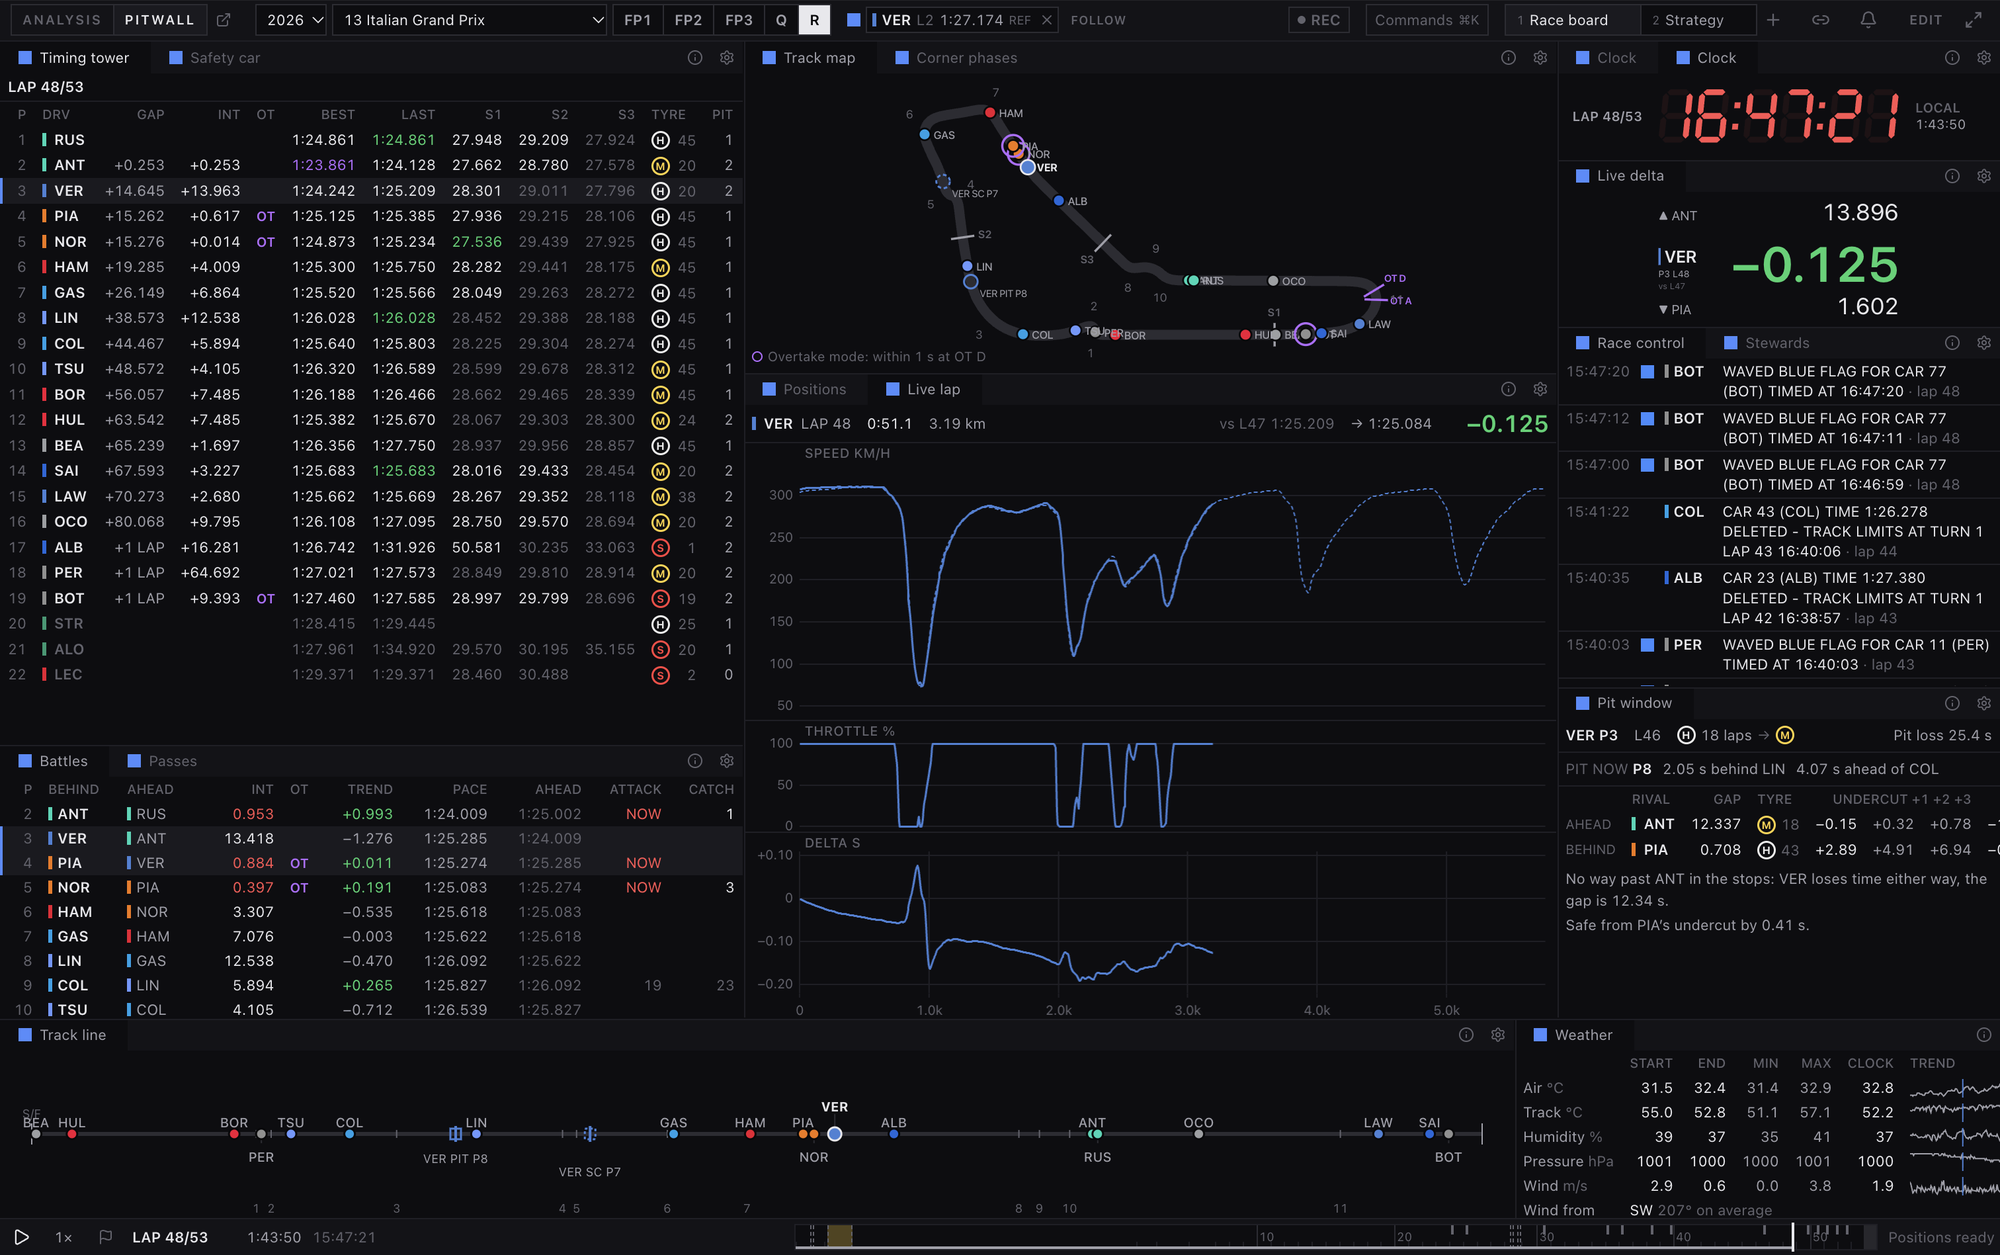
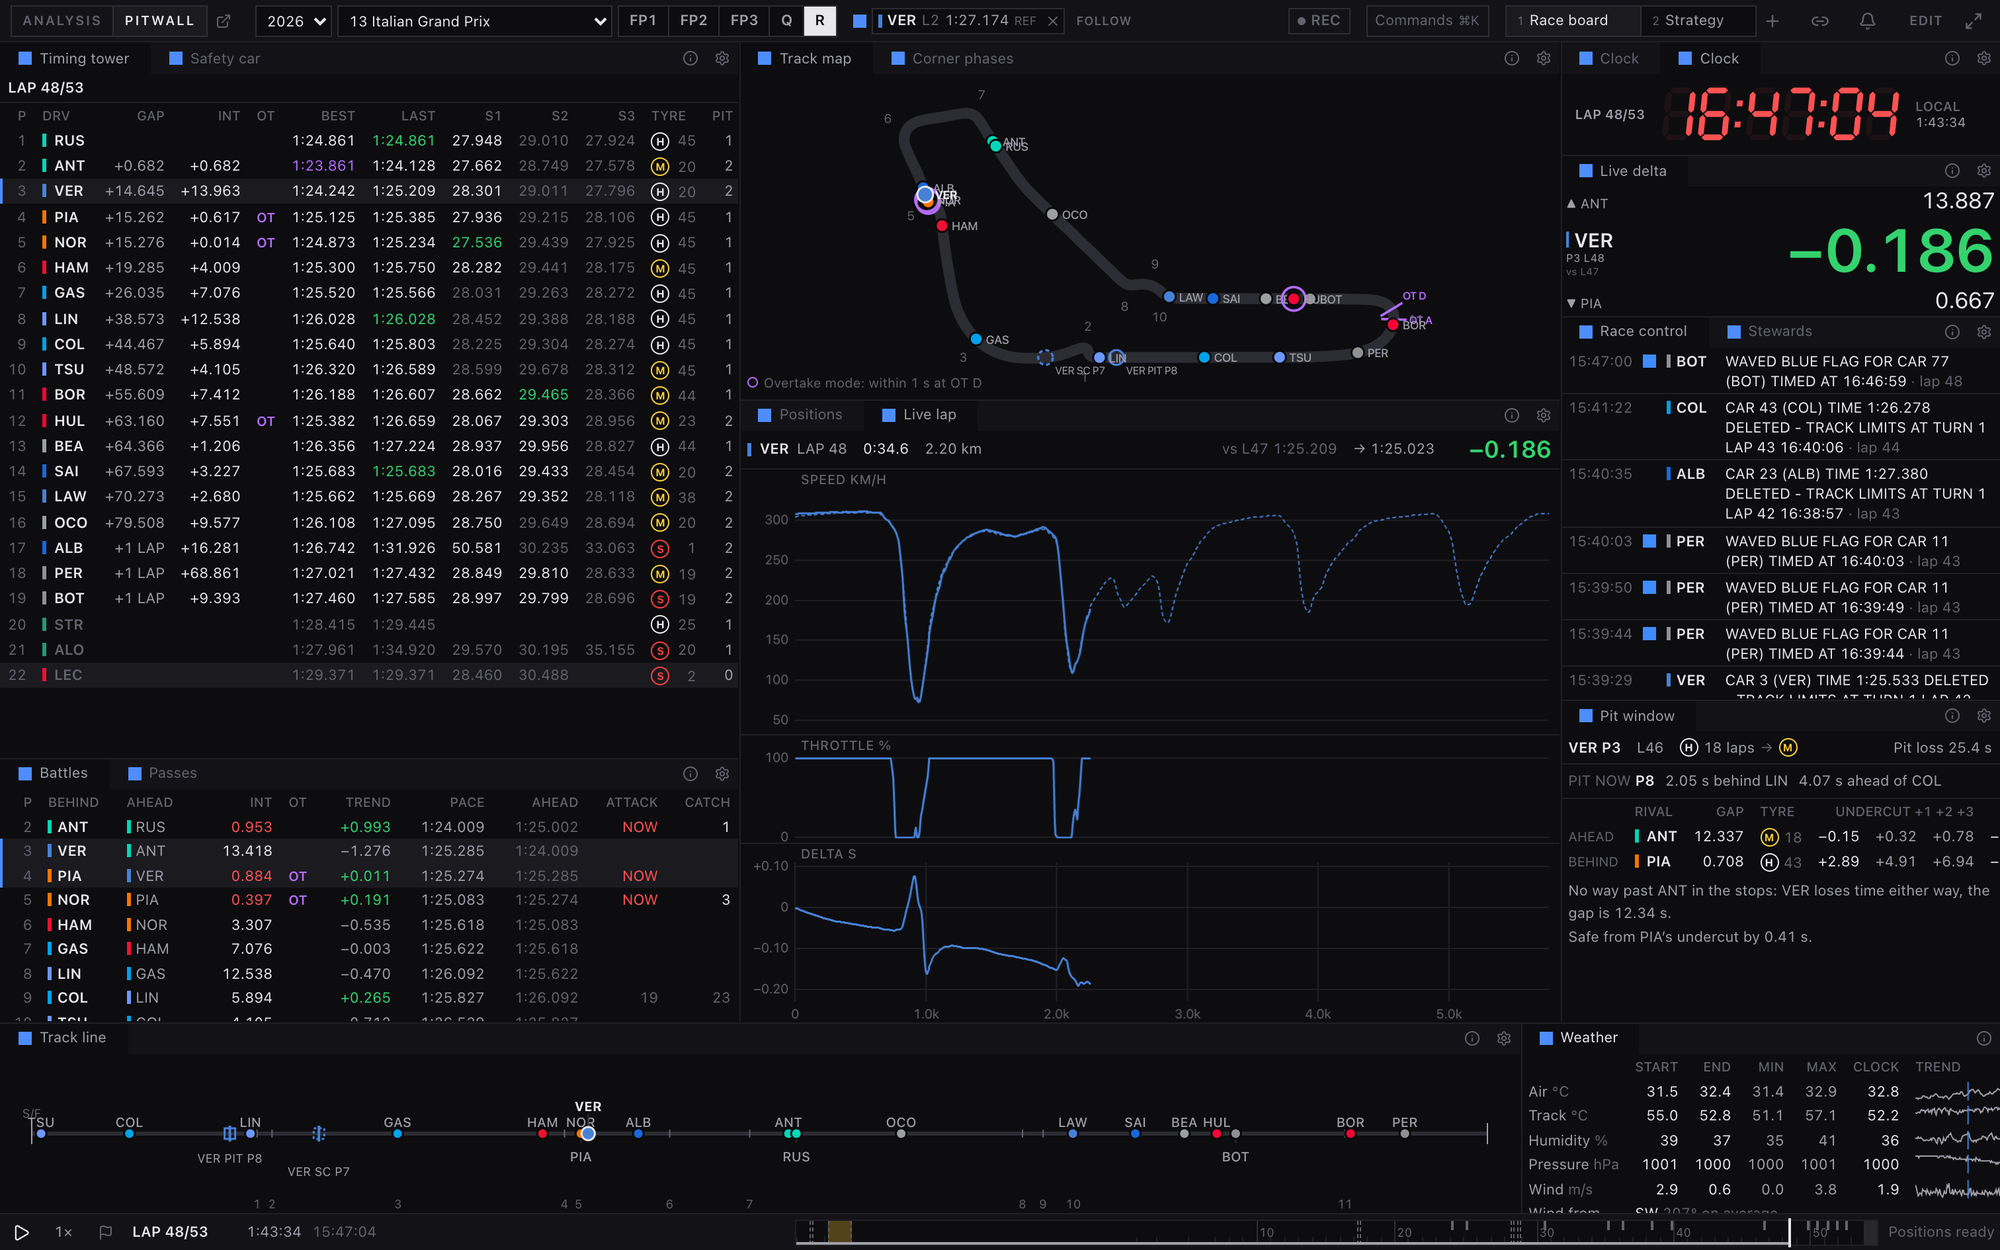
README screenshots with the new Live delta; row layout from 4x as wide, only the delta below 140x56

diff --git a/frontend/src/widgets/livedelta/arrange.ts b/frontend/src/widgets/livedelta/arrange.ts
@@ -37,12 +37,12 @@ export function arrange(w: number, h: number): Arrangement {
   const pad = Math.max(4, Math.round(Math.min(w, h) * 0.04));
   const inner = w - 2 * pad;
 
-  if (w < 170 || (h < 90 && w < 300)) {
+  if (w < 140 || h < 56) {
     const size = fit(inner, DELTA_CHARS, h * 0.8);
     return { kind: 'mini', delta: { x: w / 2, y: h / 2 + size * 0.36, size, anchor: 'middle' } };
   }
 
-  if (w >= 3.2 * h) {
+  if (w >= 4 * h) {
     // Three columns: the gaps on the outside, the delta in the middle.
     const side = w * 0.24;
     const gapSize = fit(side, GAP_CHARS, h * 0.42);

diff --git a/CLAUDE.md b/CLAUDE.md
@@ -451,7 +451,7 @@ Twee manieren om live (en in replay) telemetrie te volgen, allebei op de sessiek
   op de timinglijnen en dan stond het getal stil (Nilas); de volgorde blijft uit de tower, en
   gelapt, in de pit of zonder spoor geldt het interval van de tower. Q/FP: verschil in beste lap. Grijs = geen auto ervoor (P1) of erachter. De SVG heeft de pixelmaat van
   het paneel en `livedelta/arrange.ts` kiest de indeling naar de vorm (Nilas: "een soort blok"):
-  `stack` (gaps boven en onder, driver naast de delta), `tall` (alles onder elkaar), `row` (≥ 3,2×
+  `stack` (gaps boven en onder, driver naast de delta), `tall` (alles onder elkaar), `row` (≥ 4×
   zo breed als hoog: voor | delta | achter) of `mini` (alleen de delta); lettergroottes passen op
   het aantal tekens. De lap-logica (2 s vooruit, afgeronde lap 3 s
   vasthouden) zit in `widgets/livelap/useLiveLap.ts`, gedeeld met Live lap.
